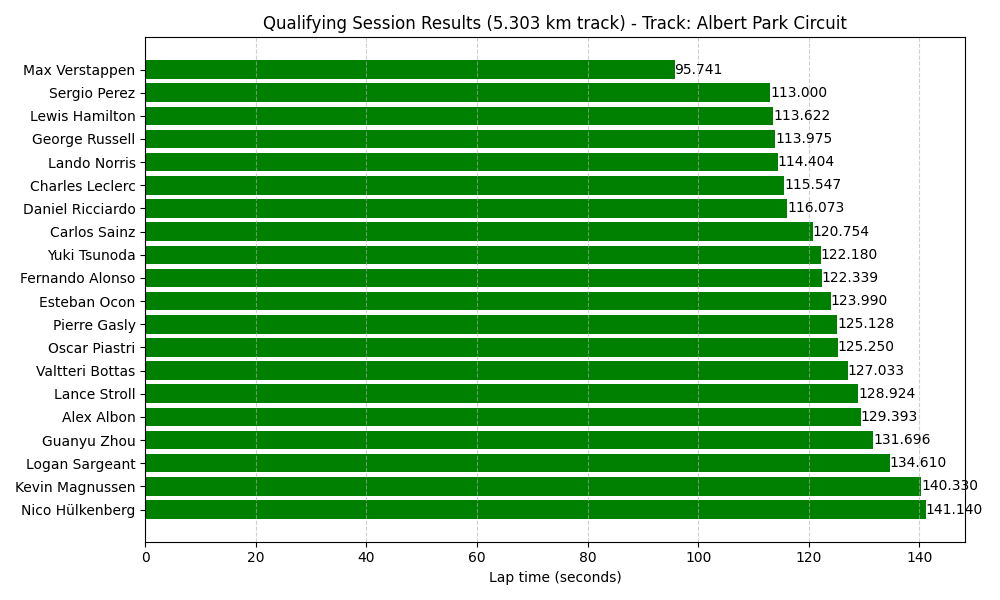
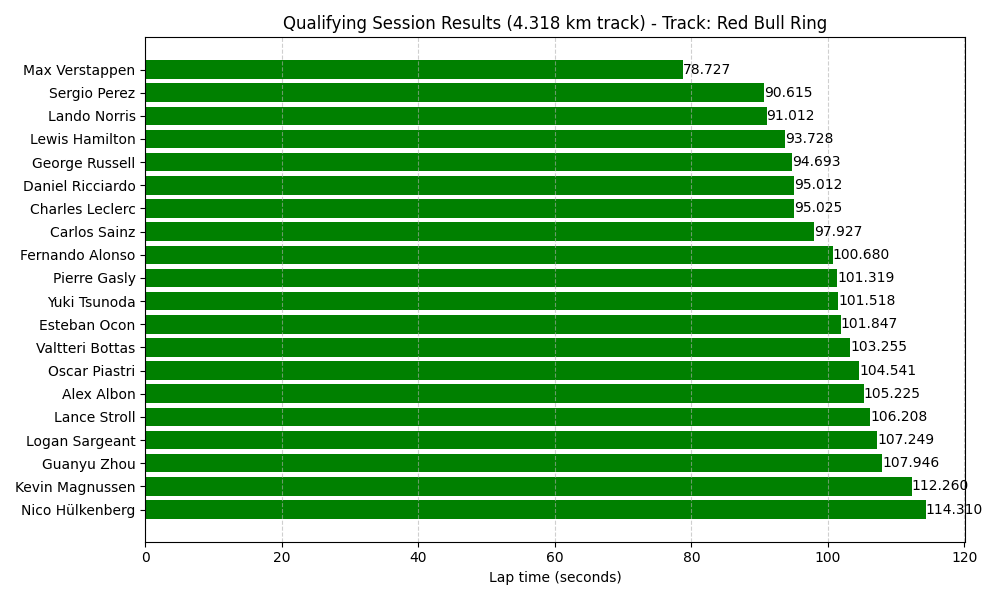
flask implementation for the app

diff --git a/src/templates/index.html b/src/templates/index.html
@@ -1,0 +1,94 @@
+<!DOCTYPE html>
+<html lang="en">
+<head>
+    <meta charset="UTF-8">
+    <meta name="viewport" content="width=device-width, initial-scale=1.0">
+    <title>Race Simulator</title>
+    <style>
+        body {
+            font-family: 'Arial', sans-serif;
+            background-color: #1a1a1a;
+            color: #fff;
+            margin: 20px;
+        }
+
+        h1, h2 {
+            color: #ffd700;
+        }
+
+        p {
+            margin-bottom: 10px;
+        }
+
+        ul {
+            list-style-type: none;
+            padding: 0;
+        }
+
+        li {
+            background-color: #333;
+            padding: 15px;
+            margin: 10px 0;
+            border-radius: 10px;
+            box-shadow: 0 0 10px rgba(255, 255, 255, 0.1);
+            display: flex;
+            justify-content: space-between;
+            align-items: center;
+        }
+
+        li:nth-child(even) {
+            background-color: #292929;
+        }
+
+        .lap-number {
+            font-size: 1.2em;
+            font-weight: bold;
+            flex-basis: 15%;
+            color: #ffd700;
+        }
+
+        .driver-name {
+            font-size: 1.2em;
+            color: #fff;
+            flex-basis: 50%;
+        }
+
+        .lap-time {
+            font-size: 1.2em;
+            color: #ddd;
+            flex-basis: 30%;
+        }
+
+        .winner {
+            background-color: #ccb800;
+        }
+
+        img {
+            max-width: 100%;
+            height: auto;
+            margin-top: 20px;
+        }
+    </style>
+</head>
+<body>
+    <h1>Race Results</h1>
+    <p>Track: {{ track.name }}</p>
+    <p>Track Length: {{ track.length }} km</p>
+    <p class="winner">Winner: {{ race_results[-1][0]['driver_name'] }}</p>
+
+    <h2>Race Results</h2>
+    <ul>
+        {% for lap in race_results %}
+            <li class="{% if loop.index == 1 %}winner{% endif %}">
+                <span class="lap-number">Lap {{ loop.index }}</span>
+                <span class="driver-name">{{ lap[0].driver_name }}</span>
+                <span class="lap-time">{{ lap[0].lap_time | format_lap_time }}</span>
+            </li>
+        {% endfor %}
+    </ul>
+
+    <!-- Add images from the static folder -->
+    <img src="{{ url_for('static', filename='practice_results.png') }}" alt="Practice Results">
+    <img src="{{ url_for('static', filename='qualifying_results.png') }}" alt="Qualifying Results">
+</body>
+</html>

diff --git a/src/modules/simulator.py b/src/modules/simulator.py
@@ -201,73 +201,13 @@ class RaceSimulator:
         return race_results
 
     def save_race_data(self, race_data, file_path):
+        static_folder = os.path.join(os.path.dirname(__file__), 'static')
+        if not os.path.exists(static_folder):
+            os.makedirs(static_folder)
+
         with open(file_path, 'w') as json_file:
             json.dump(race_data, json_file, indent=4)
 
+        self.save_practice_results_plot(os.path.join(static_folder, 'practice_results.png'))
+        self.save_qualifying_results_plot(os.path.join(static_folder, 'qualifying_results.png'))
 
-
-if __name__ == "__main__":
-    tracks = [
-        Track("Albert Park Circuit", "5.303 km", 58),
-        Track("Baku City Circuit", "6.003 km", 51),
-        Track("Buddh International Circuit", "5.125 km", 60),
-        Track("Circuit de Barcelona-Catalunya", "4.675 km", 66),
-        Track("Circuit de Monaco", "3.337 km", 78),
-        Track("Circuit Gilles Villeneuve", "4.361 km", 70),
-        Track("Circuit Paul Ricard", "5.842 km", 53),
-        Track("Hockenheimring", "4.574 km", 67),
-        Track("Hungaroring", "4.381 km", 70),
-        Track("Istanbul Park Circuit", "5.338 km", 58),
-        Track("Marina Bay Street Circuit", "5.063 km", 61),
-        Track("Red Bull Ring", "4.318 km", 71),
-        Track("Silverstone Circuit", "5.891 km", 52),
-         Track("Sochi Autodrom", "5.848 km", 53),
-        Track("Suzuka Circuit", "5.807 km", 53),
-        Track("Yas Marina Circuit", "5.554 km", 58),
-    ]
-
-    drivers = [
-        Driver("Lewis Hamilton", "Mercedes", 8.3, 9.4),
-        Driver("George Russell", "Mercedes", 8.4, 9.1),
-        Driver("Max Verstappen", "Red Bull Racing", 9.8, 9.8),
-        Driver("Sergio Perez", "Red Bull Racing", 8.2, 9.5),
-        Driver("Charles Leclerc", "Ferrari", 8.7, 8.6),
-        Driver("Carlos Sainz", "Ferrari", 8.4, 8.4),
-        Driver("Lando Norris", "McLaren", 8.9, 8.7),
-        Driver("Oscar Piastri", "McLaren", 7.8, 8.1),
-        Driver("Pierre Gasly", "Alpine", 8.1, 8.0),
-        Driver("Esteban Ocon", "Alpine", 8.3, 7.9),
-        Driver("Fernando Alonso", "Aston Martin", 8.6, 7.8),
-        Driver("Lance Stroll", "Aston Martin", 7.9, 7.6),
-        Driver("Alex Albon", "Williams", 8.0, 7.5),
-        Driver("Logan Sargeant", "Williams", 7.5, 7.3),
-        Driver("Kevin Magnussen", "Haas", 7.2, 7.1),
-        Driver("Nico Hülkenberg", "Haas", 7.0, 6.9),
-        Driver("Valtteri Bottas", "Alfa Romeo", 8.5, 7.7),
-        Driver("Guanyu Zhou", "Alfa Romeo", 7.7, 7.4),
-        Driver("Yuki Tsunoda", "AlphaTauri", 8.2, 8.2),
-        Driver("Daniel Ricciardo", "AlphaTauri", 8.8, 8.5),        
-    ]
-
-    race_simulator = RaceSimulator(tracks, drivers)
-
-    selected_track = random.choice(tracks)
-    race_simulator.simulate_practice(selected_track)
-    qualifying_results = race_simulator.simulate_qualifying(selected_track)
-    race_results = race_simulator.simulate_race(selected_track, selected_track.laps)
-
-    race_data = {
-        "track": selected_track.name,
-        "track_length": selected_track.length,
-        "average_speed": 210,
-        "qualifying_results": qualifying_results,
-        "race_results": race_results
-    }
-
-    data_folder = os.path.join(os.path.dirname(__file__), '..', 'data')
-    if not os.path.exists(data_folder):
-        os.makedirs(data_folder)
-    json_file_path = os.path.join(data_folder, 'race_results.json')
-    race_simulator.save_race_data(race_data, json_file_path)
-
-    print("Yarış sonuçları JSON dosyası 'data' klasörü içine kaydedildi:", json_file_path)

diff --git a/src/modules/data.py b/src/modules/data.py
@@ -1,0 +1,43 @@
+from modules.simulator import Track, Driver
+
+tracks = [
+        Track("Albert Park Circuit", "5.303 km", 58),
+        Track("Baku City Circuit", "6.003 km", 51),
+        Track("Buddh International Circuit", "5.125 km", 60),
+        Track("Circuit de Barcelona-Catalunya", "4.675 km", 66),
+        Track("Circuit de Monaco", "3.337 km", 78),
+        Track("Circuit Gilles Villeneuve", "4.361 km", 70),
+        Track("Circuit Paul Ricard", "5.842 km", 53),
+        Track("Hockenheimring", "4.574 km", 67),
+        Track("Hungaroring", "4.381 km", 70),
+        Track("Istanbul Park Circuit", "5.338 km", 58),
+        Track("Marina Bay Street Circuit", "5.063 km", 61),
+        Track("Red Bull Ring", "4.318 km", 71),
+        Track("Silverstone Circuit", "5.891 km", 52),
+         Track("Sochi Autodrom", "5.848 km", 53),
+        Track("Suzuka Circuit", "5.807 km", 53),
+        Track("Yas Marina Circuit", "5.554 km", 58),
+]
+
+drivers = [
+        Driver("Lewis Hamilton", "Mercedes", 8.3, 9.4),
+        Driver("George Russell", "Mercedes", 8.4, 9.1),
+        Driver("Max Verstappen", "Red Bull Racing", 9.8, 9.8),
+        Driver("Sergio Perez", "Red Bull Racing", 8.2, 9.5),
+        Driver("Charles Leclerc", "Ferrari", 8.7, 8.6),
+        Driver("Carlos Sainz", "Ferrari", 8.4, 8.4),
+        Driver("Lando Norris", "McLaren", 8.9, 8.7),
+        Driver("Oscar Piastri", "McLaren", 7.8, 8.1),
+        Driver("Pierre Gasly", "Alpine", 8.1, 8.0),
+        Driver("Esteban Ocon", "Alpine", 8.3, 7.9),
+        Driver("Fernando Alonso", "Aston Martin", 8.6, 7.8),
+        Driver("Lance Stroll", "Aston Martin", 7.9, 7.6),
+        Driver("Alex Albon", "Williams", 8.0, 7.5),
+        Driver("Logan Sargeant", "Williams", 7.5, 7.3),
+        Driver("Kevin Magnussen", "Haas", 7.2, 7.1),
+        Driver("Nico Hülkenberg", "Haas", 7.0, 6.9),
+        Driver("Valtteri Bottas", "Alfa Romeo", 8.5, 7.7),
+        Driver("Guanyu Zhou", "Alfa Romeo", 7.7, 7.4),
+        Driver("Yuki Tsunoda", "AlphaTauri", 8.2, 8.2),
+        Driver("Daniel Ricciardo", "AlphaTauri", 8.8, 8.5),        
+]

diff --git a/src/app.py b/src/app.py
@@ -1,0 +1,31 @@
+from datetime import timedelta
+from flask import Flask, render_template, send_from_directory
+from flask_caching import Cache
+from modules.simulator import RaceSimulator, Track, Driver
+from modules.data import tracks, drivers
+import random
+import os
+
+app = Flask(__name__)
+
+race_simulator = RaceSimulator(tracks, drivers)
+
+app.config['CACHE_TYPE'] = 'simple'
+cache = Cache(app)
+
+@app.template_filter('format_lap_time')
+def format_lap_time(value):
+    formatted_time = str(timedelta(seconds=value))
+    if formatted_time.startswith("0:"):
+        formatted_time = formatted_time[2:]
+    return formatted_time
+
+@app.route('/')
+@cache.cached(timeout=3600)
+def index():
+    selected_track = random.choice(tracks)
+    race_results = race_simulator.simulate_race(selected_track, selected_track.laps)
+    return render_template('index.html', track=selected_track, race_results=race_results)
+
+if __name__ == '__main__':
+    app.run(debug=True)
